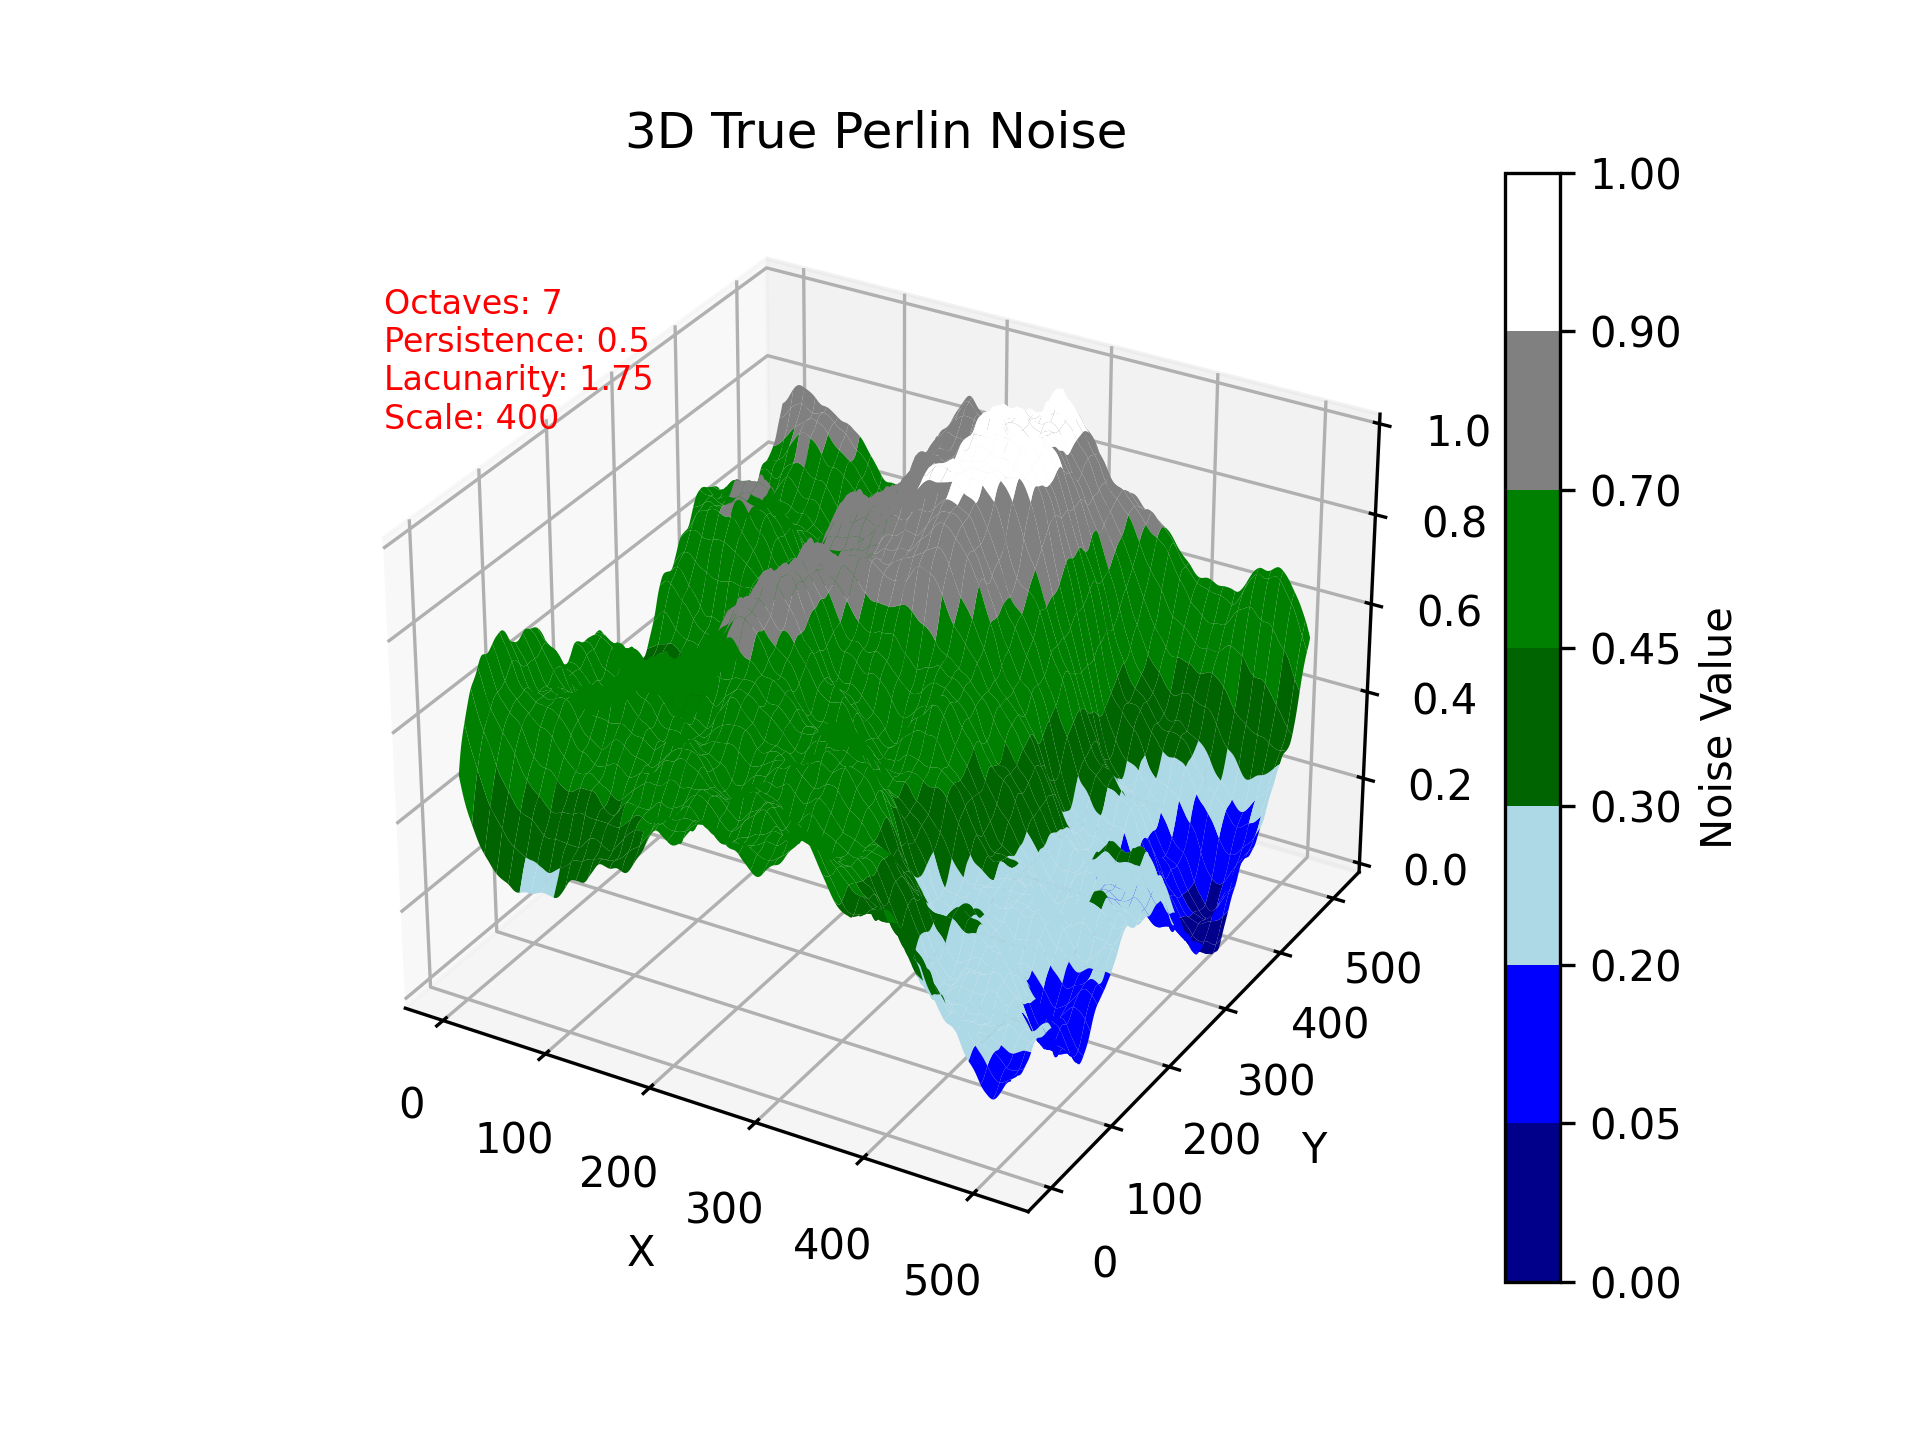
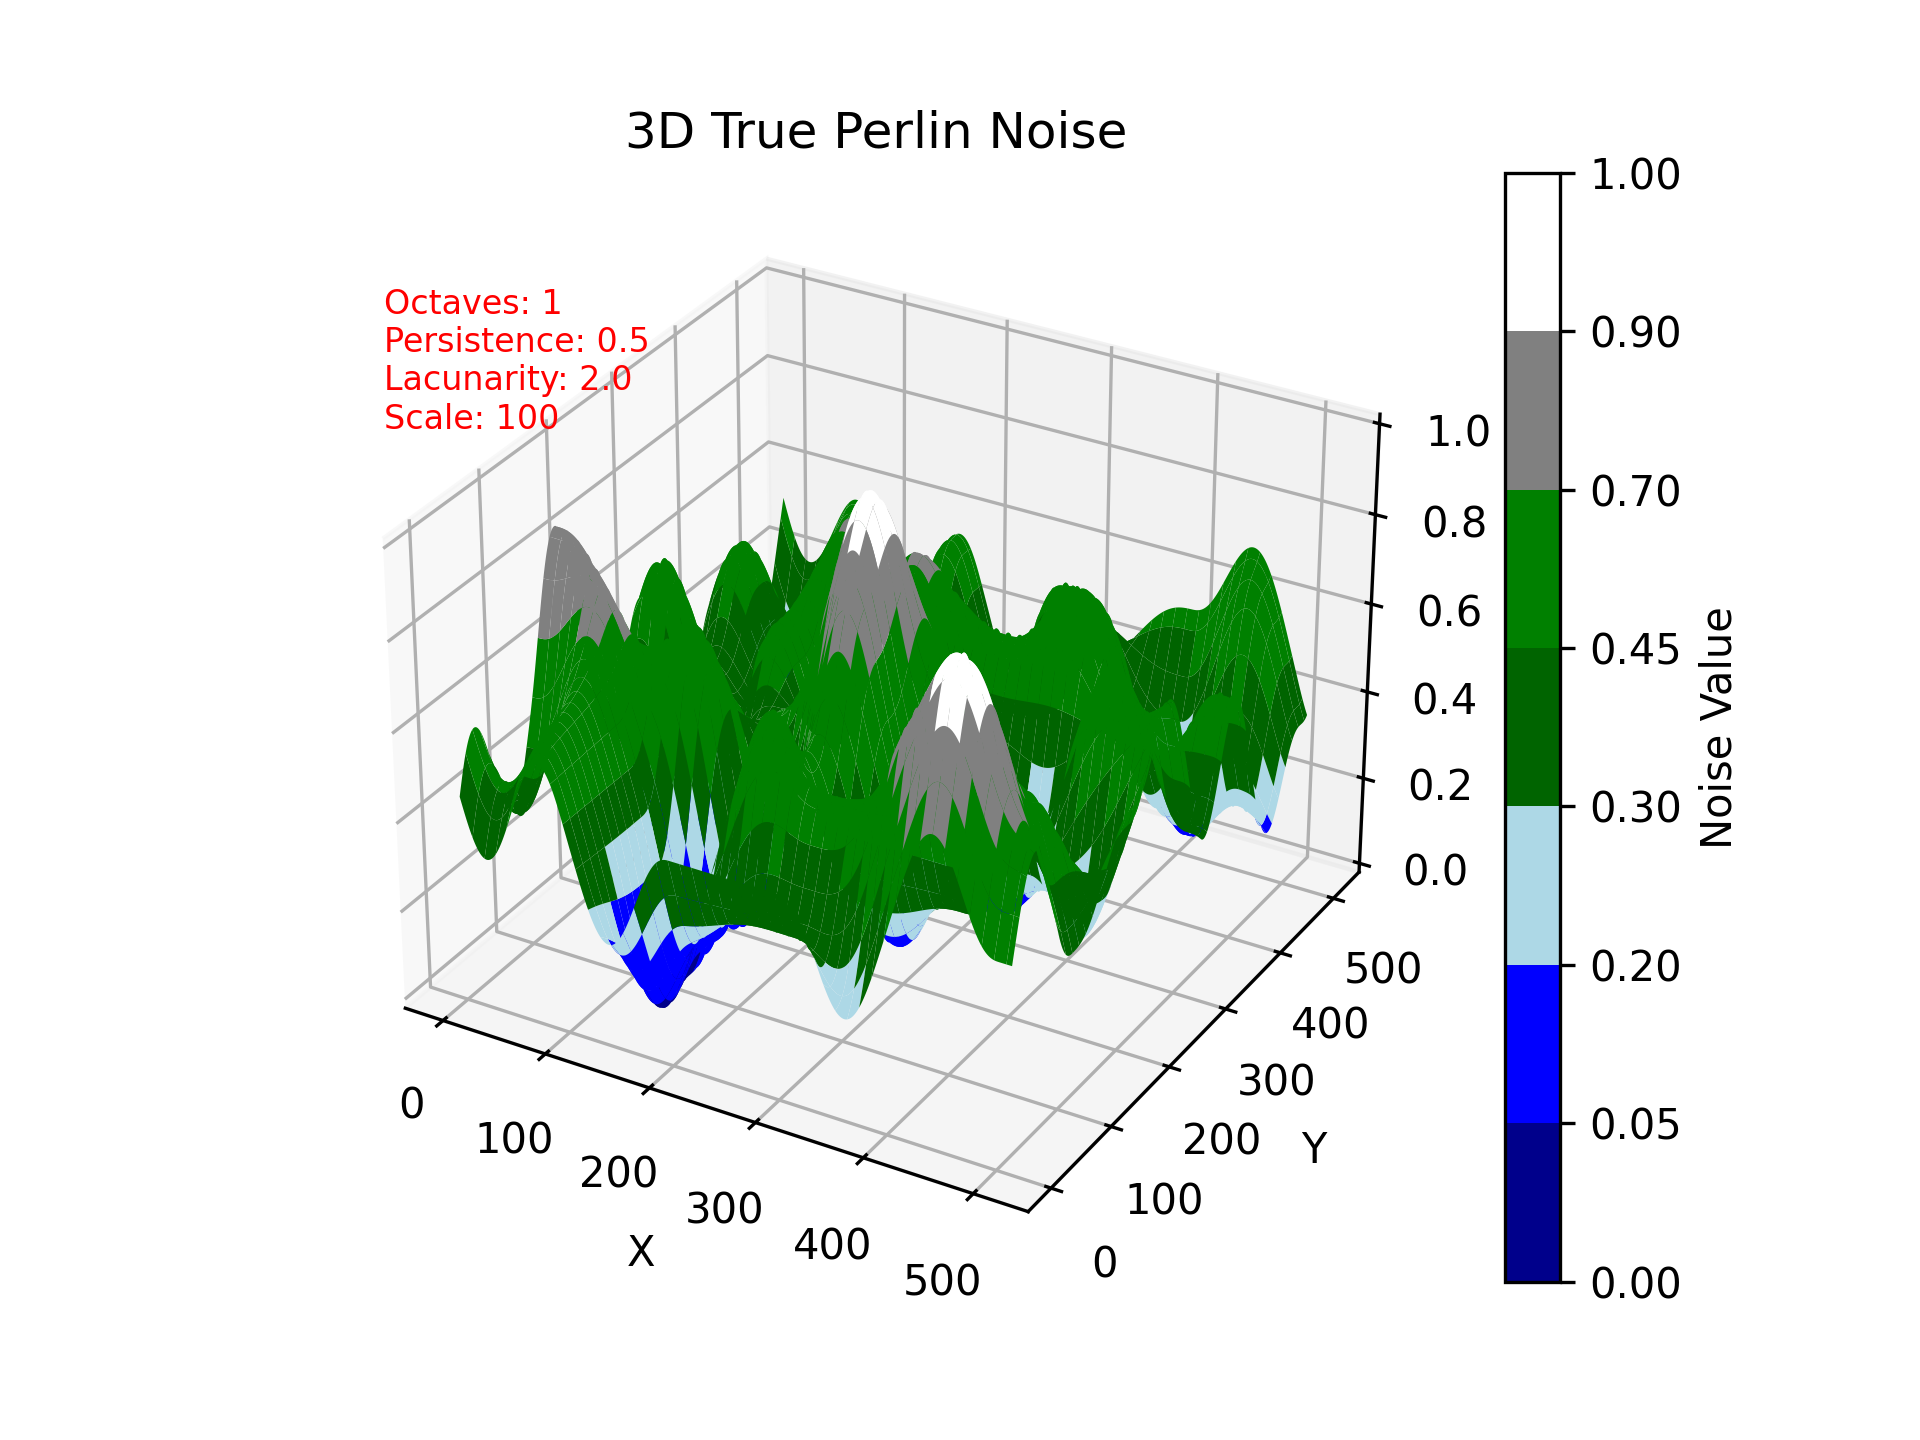
Added more images of true Perlin Noise

Changed region(s): [[0.2188, 0.25, 0.6875, 0.7812], [0.3125, 0.25, 0.3438, 0.2812]]

diff --git a/true_perlin_noise.py b/true_perlin_noise.py
@@ -85,10 +85,10 @@ def display_noise(noise_array, output_dir, size, land_type_boundaries, land_type
 if __name__ == "__main__":
     # Parameters for the Perlin noise
     size = (512, 512)
-    octaves = 7
+    octaves = 1
     persistence = 0.50         # Amplitude of each octave
-    lacunarity = 1.75          # Frequency of each octave
-    scale = 400               # Scale of the noise (higher values zoom out)
+    lacunarity = 2.0          # Frequency of each octave
+    scale = 100               # Scale of the noise (higher values zoom out)
 
     # Hyperparameters to dictate the land type colors and boundaries
     water_level = 0.30                                                      # Water level for fractal Perlin noise generation
